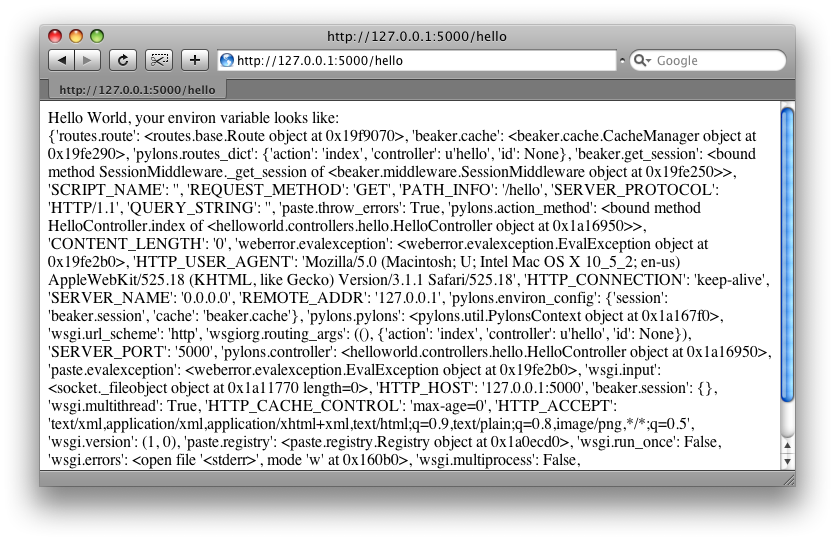
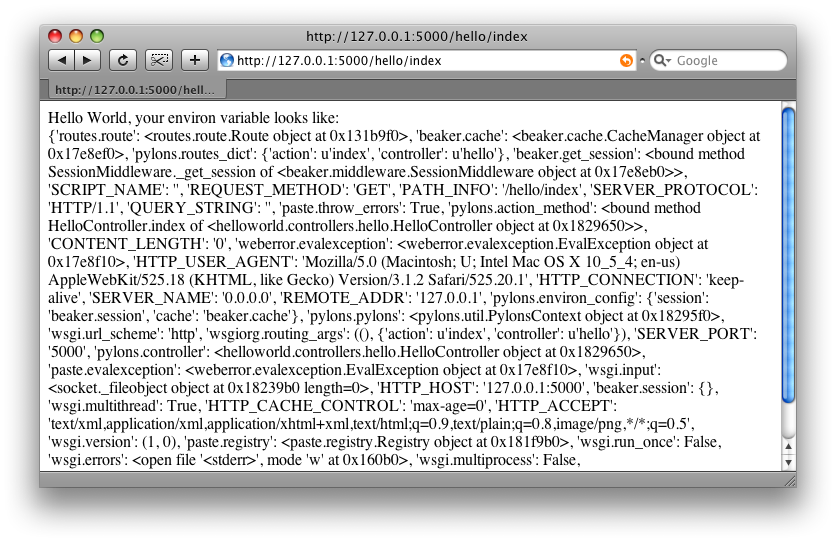
Getting started update

diff --git a/pylons/docs/gettingstarted.rst b/pylons/docs/gettingstarted.rst
@@ -24,7 +24,7 @@ Installing
     Python 2.3, see :ref:`python23_installation`.
 
 To avoid conflicts with system-installed Python libraries, Pylons comes with a
-boot-strap Python script that sets up a `virtual environment <http://http://pypi.python.org/pypi/virtualenv>`_. Pylons will then be
+boot-strap Python script that sets up a `virtual environment <http://pypi.python.org/pypi/virtualenv>`_. Pylons will then be
 installed under the virtual environment.
 
 .. admonition:: By The Way
@@ -226,12 +226,11 @@ this:
 At the top are some imports of common objects you will frequently want to use
 in your controllers.
 
-Then navigate to http://127.0.0.1:5000/hello, where you should be greeted by
-short text saying "Hello World" like so (start up your app if needed):
+Then navigate to http://127.0.0.1:5000/hello/index, where you should be greeted by short text saying "Hello World" like so (start up your app if needed):
 
 .. image:: _static/helloworld.png
 
-.. admonition:: How'd that get to /hello?
+.. admonition:: How'd that get to /hello/index?
     
     :ref:`url-config` explains how URL's get mapped to controllers and
     their methods.

diff --git a/pylons/docs/index.rst b/pylons/docs/index.rst
@@ -1,5 +1,5 @@
-Welcome to Pylons' documentation!
-==================================
+Pylons Reference Documentation
+==============================
 
 .. image:: _static/pylon1.jpg
    :alt: The First Pylon of the Ramesseum, Thebes is approximately 69m long and 22m high, and marks the entrance to the Main Temple and the First Courtyard.
